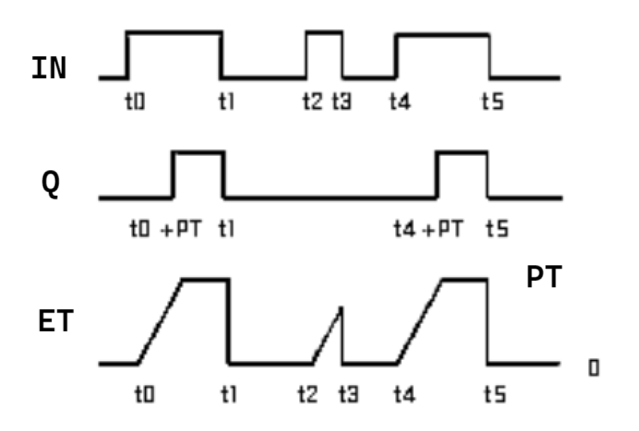
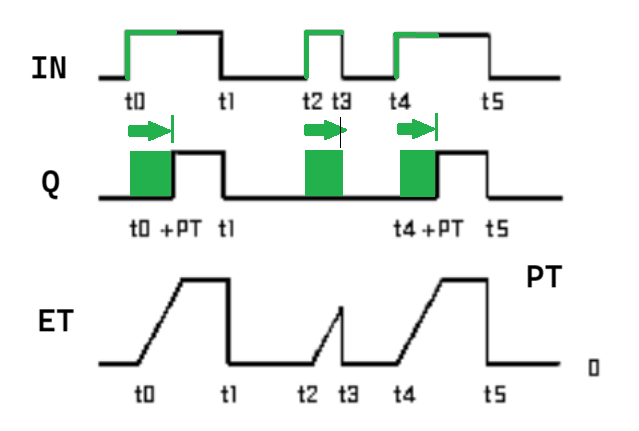
CLP: TOF e TP carta de tempos, declaração e uso.

diff --git a/docs/automacao/clp/altus_tb131/lab05-temporizadores.md b/docs/automacao/clp/altus_tb131/lab05-temporizadores.md
@@ -14,7 +14,7 @@ tags:
 
 ---
 
-**1. *ON Delay Timer***
+## 1. TON - *ON Delay Timer*
 
 Bloco funcional que produz uma atraso de acionamento da saída em função do acionamento da entrada. 
 
@@ -98,20 +98,166 @@ A Figura 2 apresenta um resumo da declaração e do uso do temporizador do tipo 
 
 ---
 
-**2. OFF Delay Timer**
+## 2. TOF - *OFF Delay Timer*
 
-![TOF](./gif/h1-4_2-TOF.gif)
+Bloco funcional que produz uma atraso de desenergização da saída em função do desligamento do sinal da entrada.
+
+A Figura 3 apresenta uma carta de tempos de funcionamento do TOF.
+
+Nomenclatura:
+
+- IN: Entrada digital;
+- Q: Saída digital;
+- PT (*Preset Time*): Tempo de atraso;
+- ET (*Elapsed Time*): Tempo decorrido.
+
+| Figura 3: Carta de tempos do TOF            | 
+|:-------------------------------------------:|
+| ![cartaTemposTOF](img/lab05-tof_tempos.png) |
+| Fonte: Master Tool IEC (Ajuda->Pesquisar...)|
+
+
+**Exemplo**
+
+Dado o acionamento de um **sensor**, ligar um **atuador**. Ao desacionar o **sensor**, produzir um **atraso de 5 segundos** e desligar o **atuador**.
+
+Para realizar o acionamento conforme indicado, são necessárias as declarações das variáveis para o sensor, atuador e o temporizador.
+
+A declaração do sensor e do atuador, associados a um endereço físico já foi abordado. 
+
+Para este tipo de temporização, o bloco funcional TOF é o mais adequado, necessitando a declaração de uma variável do tipo `TOF`. 
+
+Para visualizar o tempo decorrido da temporização, assim como com o `TON`, sugiro declarar uma variável de apoio. Costumo utilizar o nome da declaração principal, acrescido das letras da porta que esta variável vai receber o valor, assim, para o temporizador declarado como `T2`, o valor da saída `ET` será armazenado na variável `T2et`, que deve ser do tipo `TIME`.
+
+
+**Declaração de variáveis**
+
+``` Pascal
+VAR
+    SENSOR  AT %IX0.1: BOOL;
+    ATUADOR AT %QX1.1: BOOL;
+
+    T2: TOF;
+    T2et: TIME;
+END_VAR
+```
+
+**Programa LD (Ladder)**
+
+- Inserindo um bloco funcional de temporização: 
+    - Inserir \( \rightarrow \) Bloco Funcional... (Ctrl+B)
+    - Blocos funcionais padrão
+    - `C:\ ... \STANDARD.LIB` \( \rightarrow \) Timer \( \rightarrow \) TOF(FB)
+
+``` Pascal
+                 T2
+              ________
+    SENSOR   |   TOF  |                          ATUADOR 
+|----| |-----|IN     Q|----------------------------( )---|
+             |        |
+       T#5s -|PT    ET|- T2et
+             |________|
+```
+
+**Programa ST (Structured Text)**
+
+```Pascal
+T2( IN := SENSOR, PT := T#5s )
+
+T2et := T2.ET;
+ATUADOR := T2.Q;
+```
+
+
+<!-- ![TOF](./gif/h1-4_2-TOF.gif) -->
+
+
 
 ---
 
-**3. Pulse Timer**
 
-![TP](./gif/h1-4_3-TP.gif)
+
+## 3. TP - *Pulse Timer*
+
+Bloco funcional que produz um acionamento temporizado, mediante uma borda de subida como estímulo de acionamento em sua entrada.
+
+A Figura 4 apresenta uma carta de tempos de funcionamento do TP.
+
+Nomenclatura:
+
+- IN: Entrada digital;
+- Q: Saída digital;
+- PT (*Preset Time*): Tempo de atraso;
+- ET (*Elapsed Time*): Tempo decorrido.
+
+| Figura 4: Carta de tempos do TP             | 
+|:-------------------------------------------:|
+| ![cartaTemposTP](img/lab05-tp_tempos.png)   |
+| Fonte: Master Tool IEC (Ajuda->Pesquisar...)|
+
+
+**Exemplo**
+
+Dada uma borda de subida em um **sensor**, ligar um **atuador** por um tempo de **5 segundos** e ao final da temporização, desligá-lo.
+
+Para realizar o acionamento conforme indicado, são necessárias as declarações das variáveis para o sensor, atuador e o temporizador.
+
+A declaração do sensor e do atuador, associados a um endereço físico já foi abordado. 
+
+Para este tipo de temporização, o bloco funcional TP é o mais adequado, necessitando a declaração de uma variável do tipo `TP`. 
+
+Para visualizar o tempo decorrido da temporização, assim como com o `TON` e o `TOF`, sugiro declarar uma variável de apoio. Costumo utilizar o nome da declaração principal, acrescido das letras da porta que esta variável vai receber o valor, assim, para o temporizador declarado como `T3`, o valor da saída `ET` será armazenado na variável `T3et`, que deve ser do tipo `TIME`.
+
+
+**Declaração de variáveis**
+
+``` Pascal
+VAR
+    SENSOR  AT %IX0.1: BOOL;
+    ATUADOR AT %QX1.1: BOOL;
+
+    T3: TP;
+    T3et: TIME;
+END_VAR
+```
+
+**Programa LD (Ladder)**
+
+- Inserindo um bloco funcional de temporização: 
+    - Inserir \( \rightarrow \) Bloco Funcional... (Ctrl+B)
+    - Blocos funcionais padrão
+    - `C:\ ... \STANDARD.LIB` \( \rightarrow \) Timer \( \rightarrow \) TP(FB)
+
+``` Pascal
+                 T3
+              ________
+    SENSOR   |   TP   |                          ATUADOR 
+|----| |-----|IN     Q|----------------------------( )---|
+             |        |
+       T#5s -|PT    ET|- T3et
+             |________|
+```
+
+**Programa ST (Structured Text)**
+
+```Pascal
+T3( IN := SENSOR, PT := T#5s )
+
+T3et := T3.ET;
+ATUADOR := T3.Q;
+```
+
+
+
+
+
+
+<!-- ![TP](./gif/h1-4_3-TP.gif) -->
 
 ---
 
-**4. Real Time Clock**
+<!-- **4. Real Time Clock**
 
-![RTC](./gif/h1-4_4-RTC.gif)
+![RTC](./gif/h1-4_4-RTC.gif) -->
 
 ---

diff --git a/docs/dados/ad/ad00-ambiente_desen.md b/docs/dados/ad/ad00-ambiente_desen.md
@@ -1,0 +1,85 @@
+---
+title: Ambiente de Desenvolvimento
+icon: fontawesome/solid/computer
+author:
+ - José W. R. Pereira
+tags:
+ - Ciência de Dados
+ - Inteligência Artificial
+ - Aprendizado de Máquina
+---
+
+# Ferramentas para Análise de Dados e Machine Learning
+
+**Linguagem de Programação**
+
+A linguagem de programação mais comum para a análise de dados é [Python](https://www.python.org/). De fácil aprendizado, versátil e com vasta diversidade de bibliotecas para as mais diversas aplicações. 
+
+A instalação pode ser realizada baixando o instalador diretamente do site oficial [Python.org](https://www.python.org/downloads/).
+
+Outra forma de instalar o python é através do gerenciador de instalação winget via `Powershell`:
+
+```ps
+winget install Python.Python.3.13
+```
+
+No momento da elaboração deste material, a versão corrente do Python é a 3.13. 
+
+
+**Python Installer Package - [PIP](https://pypi.org/project/pip/)**
+
+Instalador de pacotes python;
+
+
+**Virtual Environment - [venv](https://docs.python.org/3/library/venv.html)**
+
+```bash
+# criando um ambiente virtual 
+python -m venv nome-venv
+
+
+# ativando o ambiente virtual
+# linux
+source nome-venv/bin/activate
+# windows
+nome-venv\Scripts\activate
+```
+
+**Jupyter notebook**
+
+O software/plataforma para desenvolvimento [Jupyter Notebook](https://jupyter.org/)
+
+Instalando o Jupyter notebook via `PowerShell`:
+
+```ps
+python -m venv venv
+```
+
+Acessando ambiente virtual
+
+```ps
+venv\Scripts\activate
+```
+
+# 3.2 Instalando kernel para Jupyter
+pip install ipykernel
+
+# 4. Adicionando o ambiente virtual à lista de kernels
+python3 -m ipykernel install --user --name=venv_ftc
+
+# 5. Excluindo o ambiente virtual da lista de kernels
+jupyter-kernelspec uninstall venv_ftc
+
+
+
+
+**Preparando ambiente para desenvolvimento - Exemplo**
+
+Para criar um ambiente de desenvolvimento, é pré-requisito que o computador possua python e jupyter instalados. 
+
+Após o python e o jupyter instalados, é o momento de acessar um diretório de trabalho e criar um ambiente de desenvolvmiento:
+
+```ps
+pip install 
+```
+

diff --git a/docs/dados/ml/ml03-knn.md b/docs/dados/ml/ml03-knn.md
@@ -71,6 +71,26 @@ Dados dois pontos \(P\) e \(Q\) localizados, respectivamente, nas coordenadas \(
 
 - [knn-CreditCardLimitClassification](https://gitlab.com/JoseWRPereira/knn-creditcardlimitclassification/-/blob/main/knn-CreditCardLimitClassification.ipynb?ref_type=heads)
 
+
+---
+
+**Aplicação**
+
+1. Criando um ambiente virtual 
+
+```bash
+python -m venv venv_knnsimplest
+```
+
+2. Ativando o ambiente virtual 
+
+```bash
+venv_knnsimpest\Scripts\activate
+```
+
+3. 
+
+
 ---
 
 **Referências**

diff --git a/docs/cursos.md b/docs/cursos.md
@@ -27,6 +27,11 @@ tags:
 2. [MATLAB Plot Gallery](https://www.mathworks.com/products/matlab/plot-gallery.html)
 3. 
 
+
+# Lógica Fuzzy
+[Aplicação da Lógica Fuzzy em sw e hw](https://doceru.com/doc/8cnnv08)
+
+
 ---
 
 
